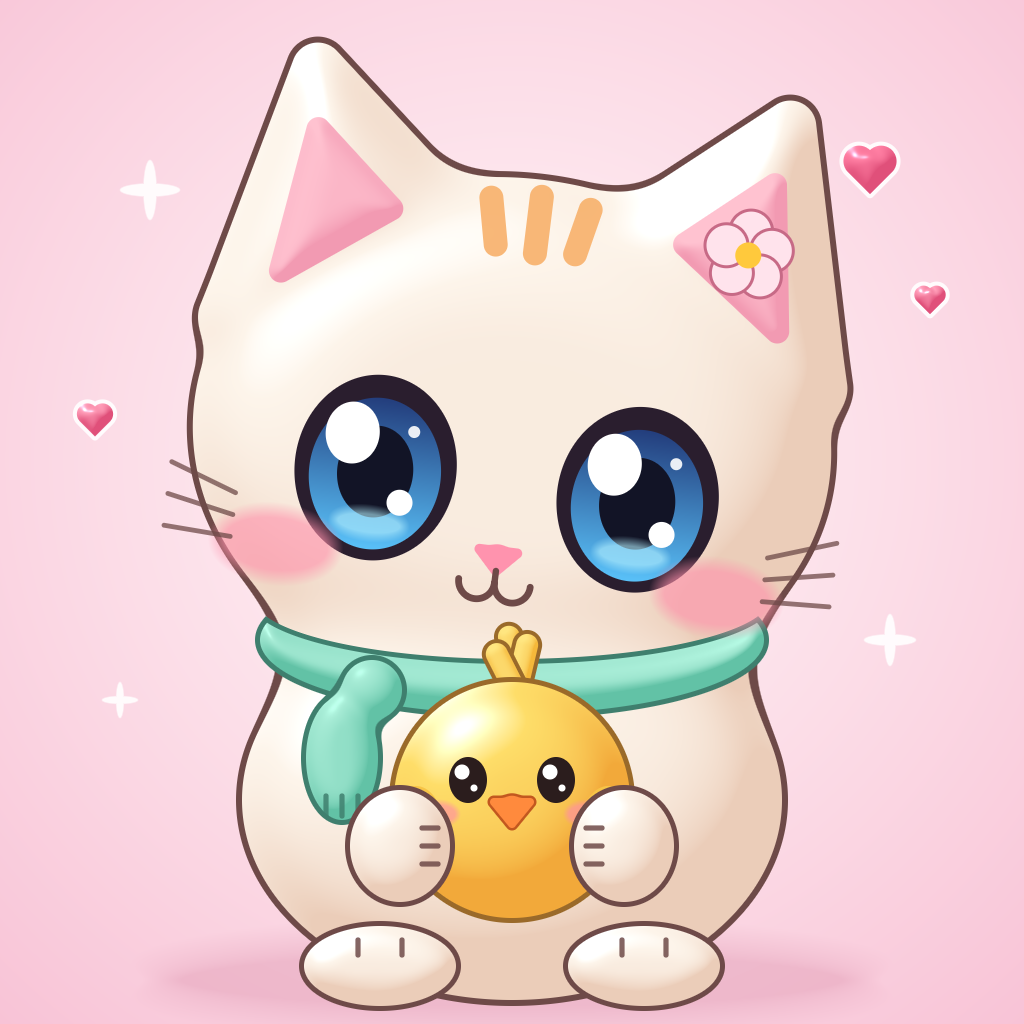
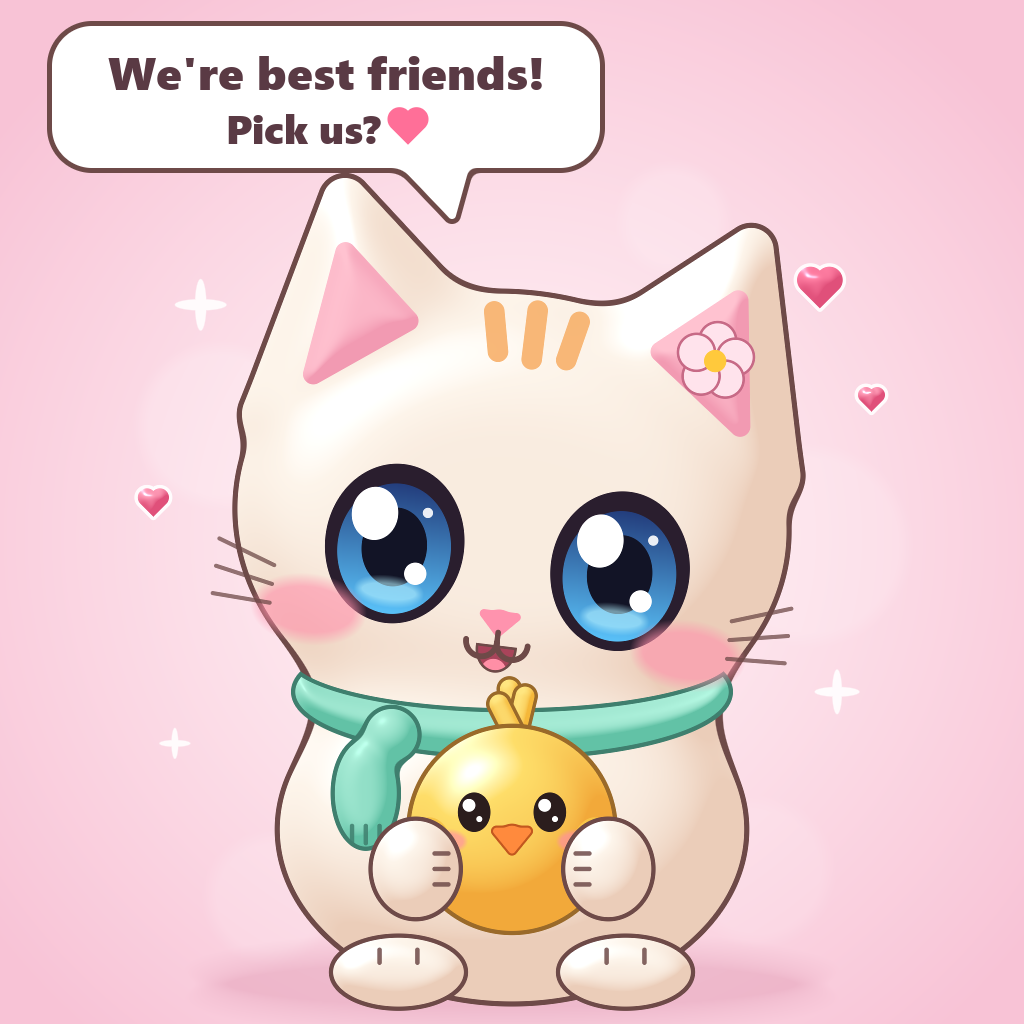
Open smile, bokeh, optional speech bubble

diff --git a/render.py b/render.py
@@ -11,7 +11,12 @@ import numpy as np
 from PIL import Image
 
 S = 1024
-YS, XS = np.mgrid[0:S, 0:S].astype(np.float64) + 0.5
+BUBBLE = "--bubble" in sys.argv
+PY, PX = np.mgrid[0:S, 0:S].astype(np.float64) + 0.5
+# with the speech bubble the scene shrinks about its bottom centre to free the top
+SCALE = 0.86 if BUBBLE else 1.0
+XS = 512 + (PX - 512) / SCALE
+YS = 1010 + (PY - 1010) / SCALE
 
 
 def hexc(h):
@@ -154,6 +159,11 @@ def draw():
     t = np.clip(r, 0, 1)[..., None] ** 1.2
     paint(c_in * (1 - t) + c_out * t, np.ones((S, S)))
 
+    # soft bokeh circles
+    for (bx_, by_, br, ba) in [(170, 330, 90, 0.18), (860, 470, 110, 0.15), (230, 880, 70, 0.14),
+                               (800, 850, 80, 0.12), (700, 90, 60, 0.16)]:
+        paint(hexc("#FFFFFF"), np.clip(0.5 - circle(bx_, by_, br) / 18, 0, 1) * ba)
+
     # a few sparkles and floating hearts
     for (sx, sy, sr) in [(150, 190, 30), (890, 640, 26), (120, 700, 18)]:
         dd = np.minimum(ellipse(sx, sy, sr, sr * 0.22), ellipse(sx, sy, sr * 0.22, sr))
@@ -275,6 +285,11 @@ def draw():
                 circle(HX, HY + 116, 10, hx, hy), 5)
     paint(pink, cov(nose))
     paint(line, cov(segment(HX, HY + 132, HX, HY + 144, 3.2, hx, hy)))
+    # small open mouth with a tongue under the w
+    mouth = np.maximum(ellipse(HX, HY + 150, 21, 26, hx, hy), (HY + 150) - hy)
+    paint(line, cov(mouth - 3))
+    paint(hexc("#A8445A"), cov(mouth))
+    paint(hexc("#FF8FA6"), cov(np.maximum(circle(HX, HY + 178, 15, hx, hy), mouth)))
     for sgn in (-1, 1):
         paint(line, cov(arc(HX + sgn * 18, HY + 144, 18, 0.0, math.pi, 3.4, hx, hy)))
 
@@ -295,8 +310,39 @@ def draw():
     paint(hexc("#FFC93C"), cov(circle(FX, FY, 13, hx, hy)))
 
 
+def draw_bubble():
+    """A speech bubble from the kitten, in pixel coordinates."""
+    from PIL import ImageDraw, ImageFont
+    x0, y0, x1, y1 = 52, 26, 600, 168
+    box = np.maximum(np.abs(PX - (x0 + x1) / 2) - ((x1 - x0) / 2 - 40), np.abs(PY - (y0 + y1) / 2) - ((y1 - y0) / 2 - 40))
+    rr = np.hypot(np.maximum(np.abs(PX - (x0 + x1) / 2) - ((x1 - x0) / 2 - 40), 0),
+                  np.maximum(np.abs(PY - (y0 + y1) / 2) - ((y1 - y0) / 2 - 40), 0))
+    rbox = np.where(box > 0, rr, box) - 40
+    tail = triangle((390, 150), (470, 150), (452, 215), PX, PY) - 4
+    bub = smin(rbox, tail, 8)
+    paint(hexc("#6E4A48"), cov(bub - 5))
+    paint(hexc("#FFFFFF"), cov(bub))
+    layer = Image.new("L", (S, S), 0)
+    dr = ImageDraw.Draw(layer)
+    f1 = ImageFont.truetype("C:/Windows/Fonts/seguibl.ttf", 46)
+    f2 = ImageFont.truetype("C:/Windows/Fonts/seguibl.ttf", 40)
+    t1, t2 = "We're best friends!", "Pick us?"
+    w1 = dr.textlength(t1, font=f1)
+    w2 = dr.textlength(t2, font=f2)
+    cx = (x0 + x1) / 2
+    dr.text((cx - w1 / 2, 40), t1, font=f1, fill=255)
+    dr.text((cx - (w2 + 46) / 2, 100), t2, font=f2, fill=255)
+    a = np.asarray(layer, dtype=np.float64) / 255
+    paint(hexc("#5A3A44"), a)
+    hd = heart(cx + (w2 + 46) / 2 - 18, 126, 34, PX, PY)
+    paint(hexc("#FF6F98"), cov(hd))
+
+
 draw()
+if BUBBLE:
+    draw_bubble()
 out = Image.fromarray((np.clip(img, 0, 1) * 255 + 0.5).astype(np.uint8), "RGB")
-path = sys.argv[1] if len(sys.argv) > 1 else "picture.png"
+args = [a for a in sys.argv[1:] if not a.startswith("--")]
+path = args[0] if args else "picture.png"
 out.save(path, optimize=True)
 print(path)
